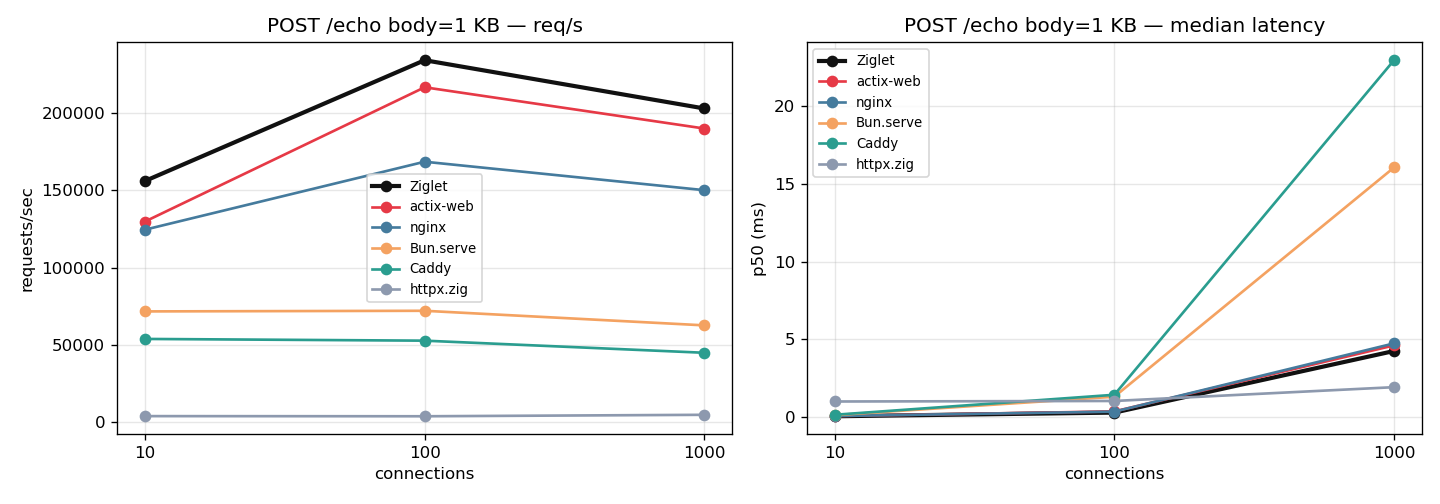
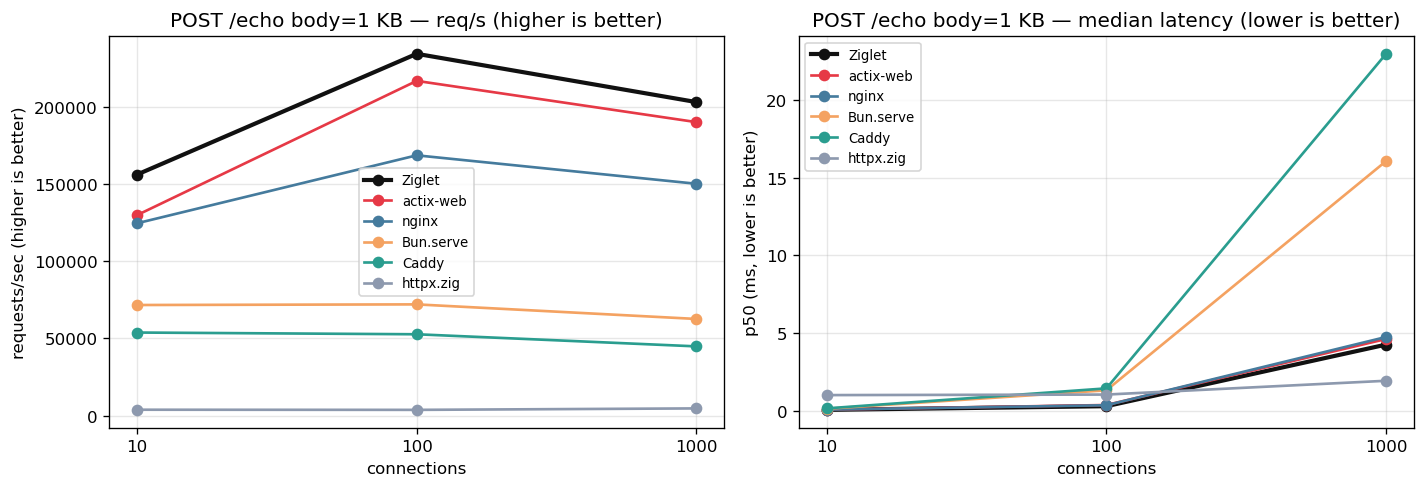
feat(bench): direction labels on all graphs (higher/lower is better) with clipping-proof saves
- bench/graphs.py: every panel now states its direction in the title and
  y-label (req/s higher is better; latency and per-request cost lower is
  better); savefig uses bbox_inches=tight so long labels are never clipped
- regenerated all five PNGs (matrix x3, static, nginx_compare)
- README: Motivation section (nginx influence, comptime-first) and an AI
  Disclosure note added

diff --git a/bench/graphs.py b/bench/graphs.py
@@ -98,18 +98,18 @@ def plot_matrix():
                 p50.append(p / 1000.0 if p else None)
             axes[0].plot(xs, rps, label=name, color=color, linewidth=lw, marker="o")
             axes[1].plot(xs, p50, label=name, color=color, linewidth=lw, marker="o")
-        axes[0].set_title(f"POST /echo body={sizes[body]} — req/s")
+        axes[0].set_title(f"POST /echo body={sizes[body]} — req/s (higher is better)")
         axes[0].set_xlabel("connections")
-        axes[0].set_ylabel("requests/sec")
+        axes[0].set_ylabel("requests/sec (higher is better)")
         axes[0].grid(True, alpha=0.3)
         axes[0].legend(fontsize=8)
-        axes[1].set_title(f"POST /echo body={sizes[body]} — median latency")
+        axes[1].set_title(f"POST /echo body={sizes[body]} — median latency (lower is better)")
         axes[1].set_xlabel("connections")
-        axes[1].set_ylabel("p50 (ms)")
+        axes[1].set_ylabel("p50 (ms, lower is better)")
         axes[1].grid(True, alpha=0.3)
         axes[1].legend(fontsize=8)
         fig.tight_layout()
-        fig.savefig(os.path.join(OUT, f"matrix_{body}.png"), dpi=120)
+        fig.savefig(os.path.join(OUT, f"matrix_{body}.png"), dpi=120, bbox_inches="tight")
         plt.close(fig)
         print(f"matrix_{body}.png")
 
@@ -131,12 +131,12 @@ def plot_static():
                color=color, edgecolor="black", linewidth=0.3)
     ax.set_xticks([p + width * (len(SERVERS) - 1) / 2 for p in x])
     ax.set_xticklabels(labels, fontsize=8)
-    ax.set_ylabel("requests/sec")
-    ax.set_title("Static file serving — req/s")
+    ax.set_ylabel("requests/sec (higher is better)")
+    ax.set_title("Static file serving — req/s (higher is better)")
     ax.legend(fontsize=8)
     ax.grid(True, axis="y", alpha=0.3)
     fig.tight_layout()
-    fig.savefig(os.path.join(OUT, "static.png"), dpi=120)
+    fig.savefig(os.path.join(OUT, "static.png"), dpi=120, bbox_inches="tight")
     plt.close(fig)
     print("static.png")
 
@@ -162,8 +162,8 @@ def plot_nginx_compare():
                 color="#457b9d")
     axes[0].set_xticks(list(x))
     axes[0].set_xticklabels(labels, rotation=45, ha="right", fontsize=7)
-    axes[0].set_ylabel("requests/sec")
-    axes[0].set_title("Ziglet vs nginx — req/s (all cells)")
+    axes[0].set_ylabel("requests/sec (higher is better)")
+    axes[0].set_title("Ziglet vs nginx — req/s (higher is better)")
     axes[0].legend(fontsize=8)
     axes[0].grid(True, axis="y", alpha=0.3)
 
@@ -173,13 +173,13 @@ def plot_nginx_compare():
                 label="nginx", color="#457b9d")
     axes[1].set_xticks(list(x))
     axes[1].set_xticklabels(labels, rotation=45, ha="right", fontsize=7)
-    axes[1].set_ylabel("per-request cost (us, 1e9/rps)")
-    axes[1].set_title("Ziglet vs nginx — effective cost per request")
+    axes[1].set_ylabel("per-request cost (us, lower is better)")
+    axes[1].set_title("Ziglet vs nginx — effective cost per request (lower is better)")
     axes[1].legend(fontsize=8)
     axes[1].grid(True, axis="y", alpha=0.3)
 
     fig.tight_layout()
-    fig.savefig(os.path.join(OUT, "nginx_compare.png"), dpi=120)
+    fig.savefig(os.path.join(OUT, "nginx_compare.png"), dpi=120, bbox_inches="tight")
     plt.close(fig)
     print("nginx_compare.png")
 

diff --git a/README.md b/README.md
@@ -7,13 +7,12 @@ kernel-level optimizations (SO_REUSEPORT, sendfile, writev). In the
 nginx-feature comparison it leads on every measured workload (see
 `bench/BENCH.md`).
 
-## Status
+## Motivation
+- Heavily influenced by nginx in terms of config / custom modules / http phases.
+- A high performance TCP/HTTP server that can compete with nginx (the fastest web server that I have worked with).
+- Comptime, Comptime and Comptime!!! Use compile time (Zig's one of the strongest feature IMO) wherever.
 
-All milestones M1-M15 are complete (see `docs/milestones.md` for the
-history). In the nginx/actix/Bun/Caddy/httpx comparison
-(`bench/compare-servers.sh`) Ziglet leads every measured workload.
-Roadmap: `docs/ROADMAP.md`. Configuration reference (routes + limits):
-`docs/config.md`; full sample: `config.example.json`.
+
 
 ## Source layout
 
@@ -96,3 +95,8 @@ just run `python3 bench/graphs.py --run` (full suite + graphs):
   Ziglet leads every measured workload (nginx comparison in
   `bench/BENCH.md`).
 - `bench/http-check.py`, `bench/echo-check.py` — end-to-end correctness checks.
+
+## AI Disclosure
+
+- This project is also a learning opportunity for me for using agentic development, so there is heavy AI/LLM usage in this repo.
+- Mainly the model used is *DeepSeek V4 Flash* with *OpenCode* as the harness.
